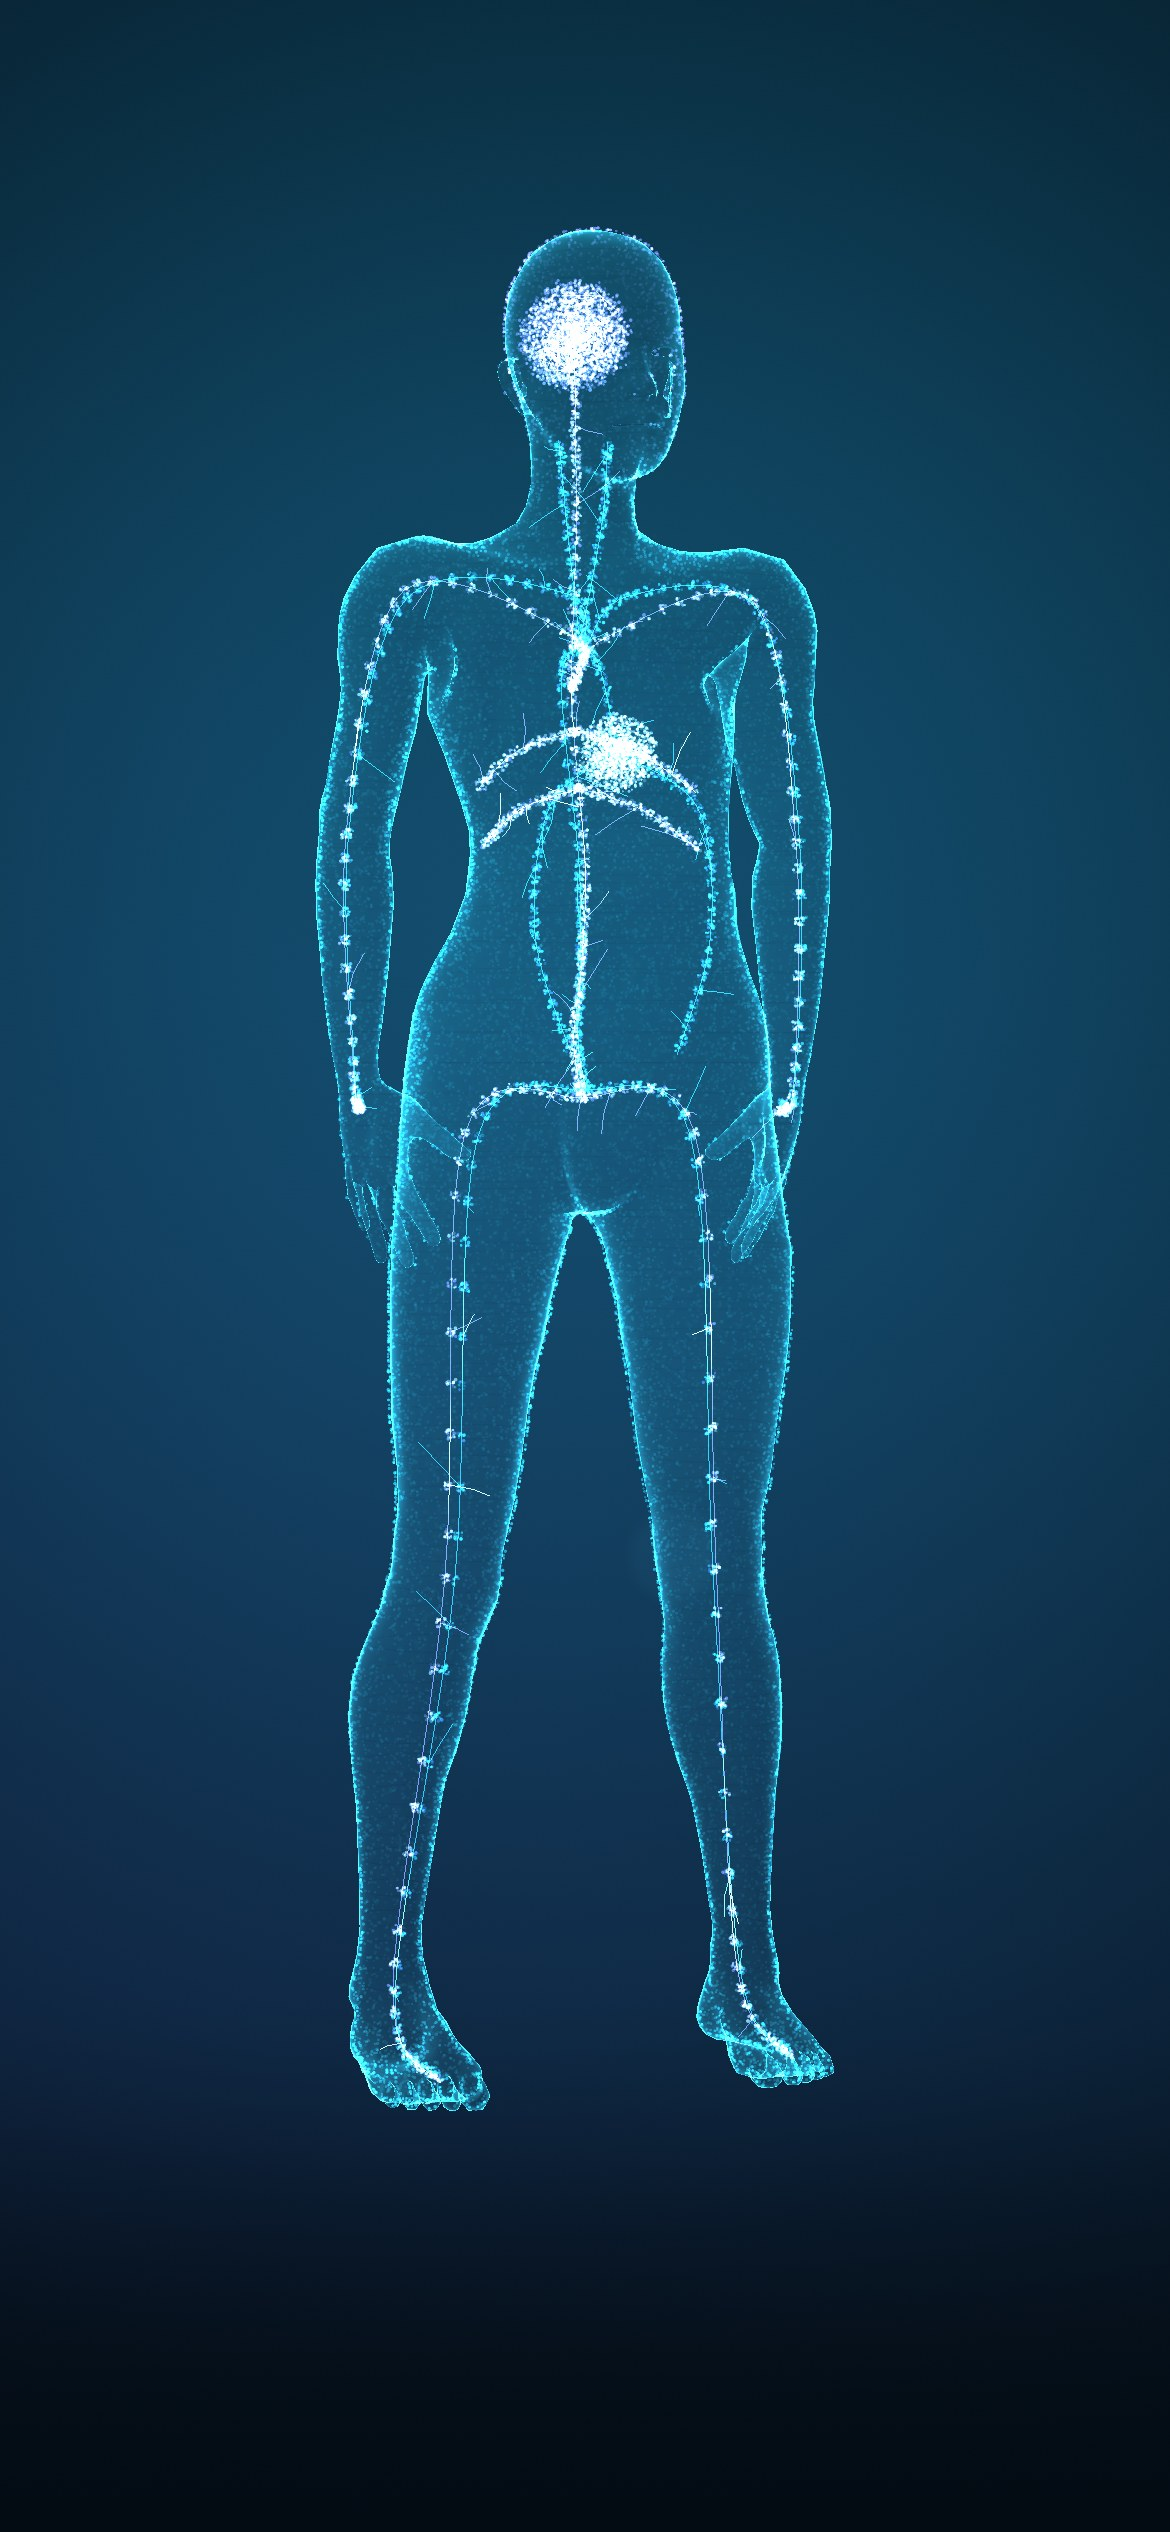
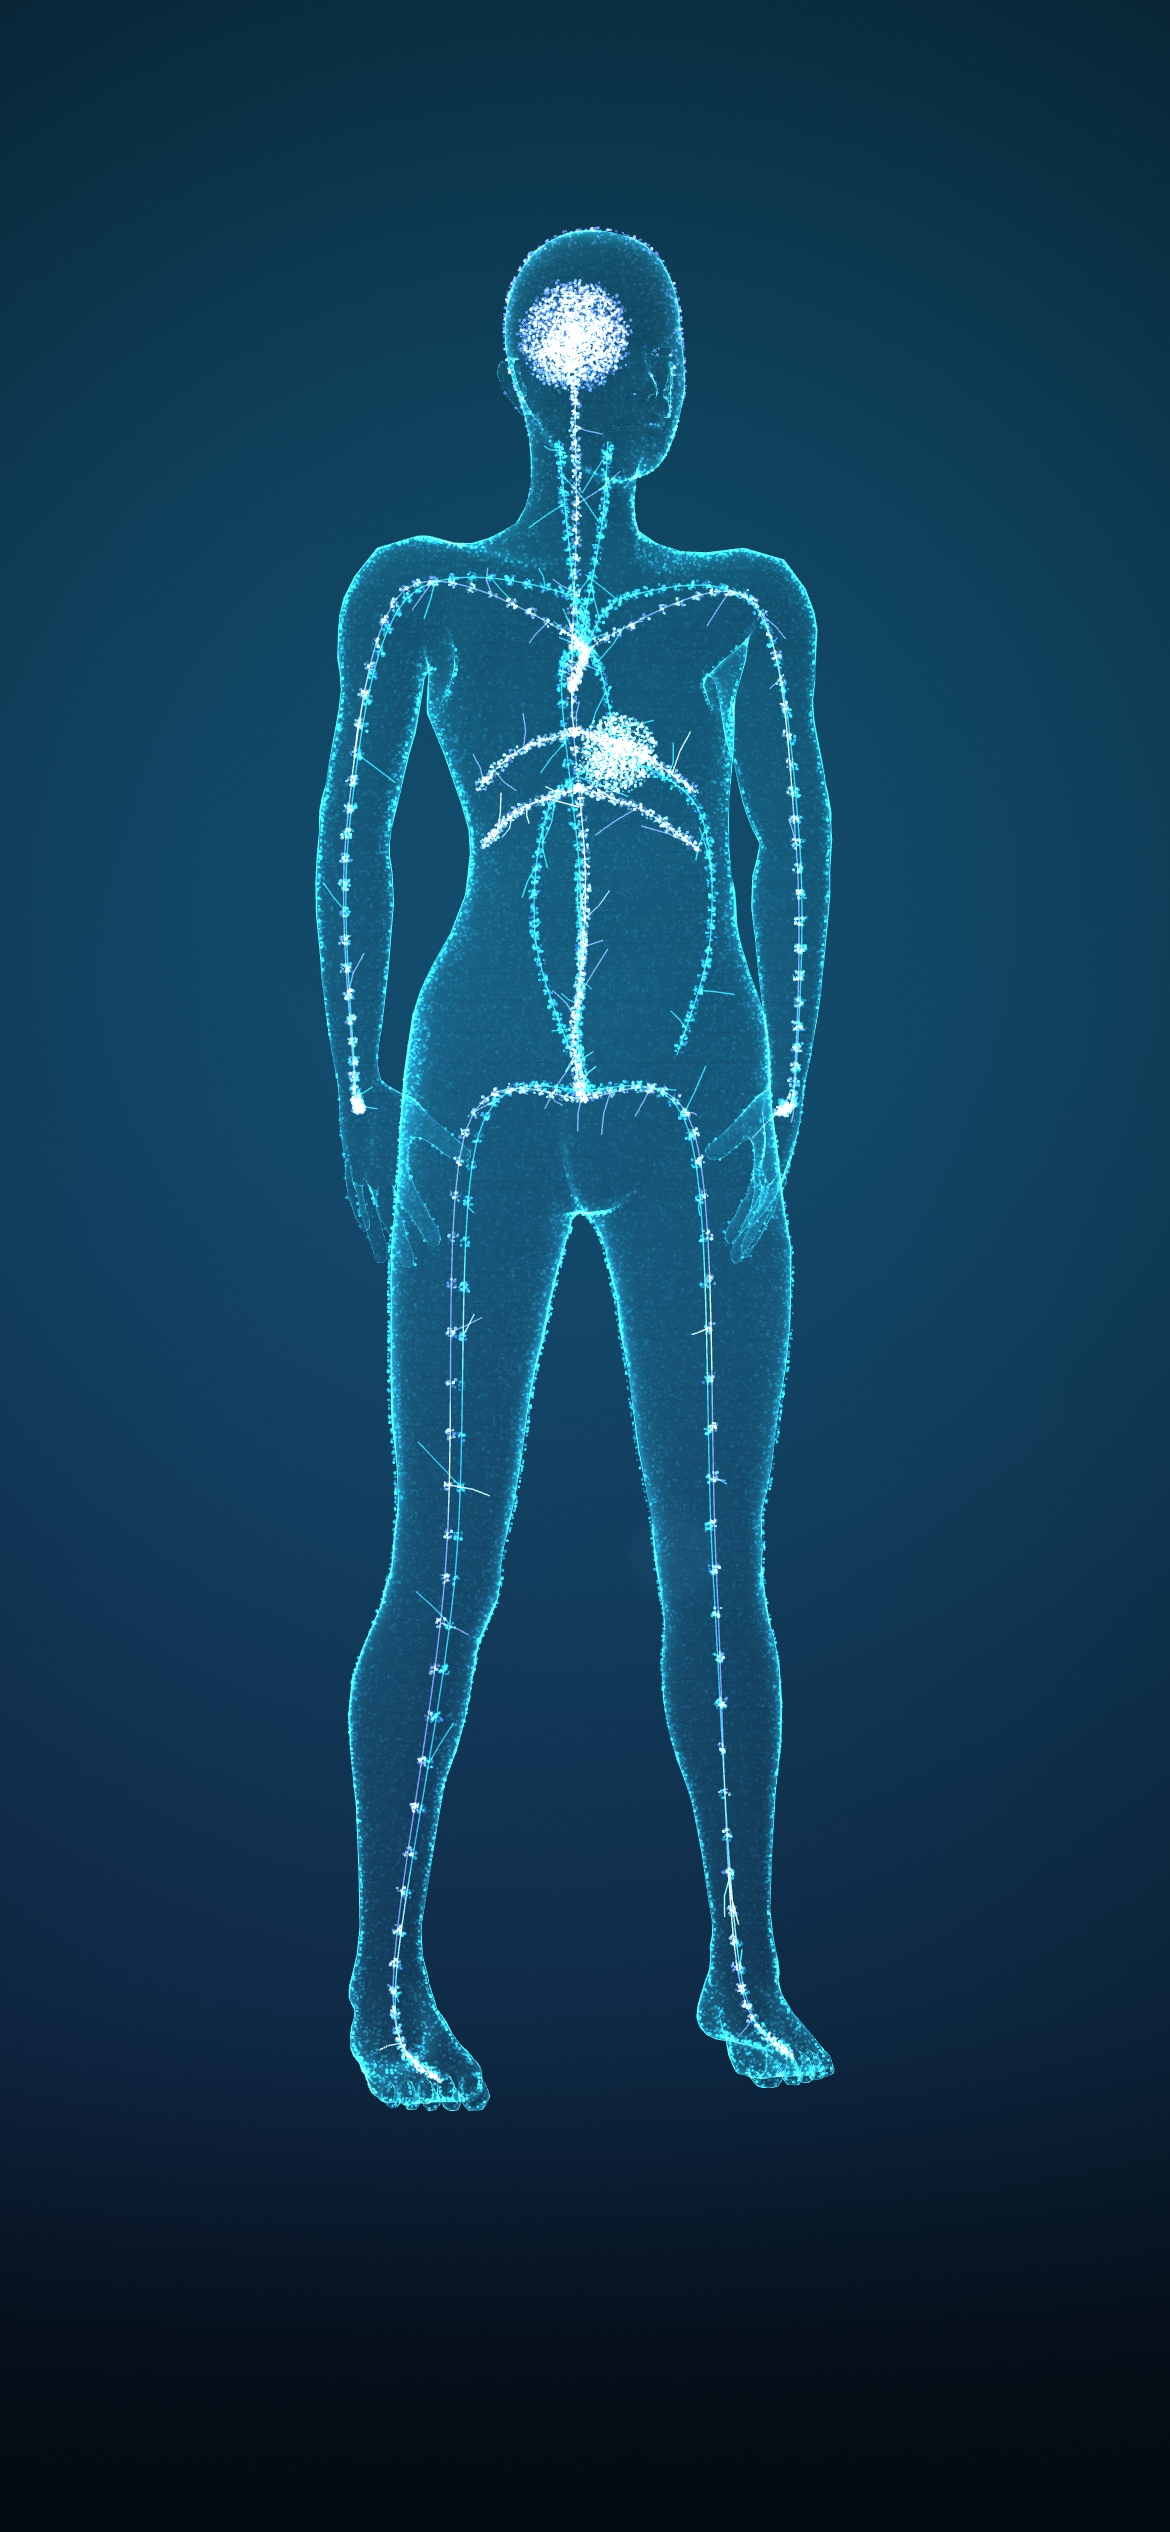
Public: sharpen the hero and scene graphics
- WebGL hero: MSAA antialiasing on, resolution never below 1x and up to
  2x on capable devices (1.25x for integrated GPUs at high resolution);
  quality step-down floors at 1x instead of dropping below native.
- Images: hero still and scene renders delivered at quality 90 as
  AVIF/WebP (were re-compressed JPEG at 75, which blocked and banded
  the dark gradients); masters re-rendered at JPEG 0.96.
- The full-width 'Everything connects' render is now 3200 px wide
  (was 2000, stretched on large and high-DPI screens).

Changed region(s): [[0.3692, 0.624, 0.4, 0.6552], [0.3692, 0.5616, 0.4, 0.5928]]

diff --git a/src/components/showcase/hero/hero-tier.ts b/src/components/showcase/hero/hero-tier.ts
@@ -29,8 +29,8 @@ export interface TierBudget {
 }
 
 const BUDGET: Record<Tier, Omit<TierBudget, 'tier' | 'reason'>> = {
-  a: { surface: 22000, interior: 4000, brain: 2000, story: 14000, motes: 70, maxDpr: 1.75, maxPointPx: 26 },
-  b: { surface: 11000, interior: 2000, brain: 1200, story: 6000, motes: 30, maxDpr: 1.5, maxPointPx: 16 },
+  a: { surface: 22000, interior: 4000, brain: 2000, story: 14000, motes: 70, maxDpr: 2, maxPointPx: 26 },
+  b: { surface: 11000, interior: 2000, brain: 1200, story: 6000, motes: 30, maxDpr: 2, maxPointPx: 16 },
   c: { surface: 0, interior: 0, brain: 0, story: 0, motes: 0, maxDpr: 1, maxPointPx: 0 },
 };
 
@@ -71,6 +71,6 @@ export function detectTier(search: string = window.location.search): TierBudget 
   if (window.matchMedia('(pointer: coarse)').matches || window.innerWidth < 820) return make('b', 'touch or small viewport');
   if ((nav.deviceMemory ?? 8) <= 4) return make('b', 'device memory ≤ 4 GB');
   if ((nav.hardwareConcurrency ?? 8) <= 4) return make('b', '≤ 4 logical cores');
-  if (integratedGpuAtHighRes(gl)) return { ...make('b', 'integrated GPU at high resolution'), maxDpr: 0.9 };
+  if (integratedGpuAtHighRes(gl)) return { ...make('b', 'integrated GPU at high resolution'), maxDpr: 1.25 };
   return make('a', 'desktop-class device');
 }

diff --git a/src/components/showcase/hero/hero-engine.ts b/src/components/showcase/hero/hero-engine.ts
@@ -222,7 +222,8 @@ export class HeroEngine {
     this.budget = opts.tier;
     this.renderer = new THREE.WebGLRenderer({
       canvas,
-      antialias: false,
+      // MSAA: smooth edges on the ribbon, atoms and contour lines.
+      antialias: true,
       alpha: false,
       powerPreference: 'high-performance',
       stencil: false,
@@ -623,7 +624,7 @@ export class HeroEngine {
     this.portrait = w / h < 0.9;
     this.camera.aspect = w / h;
     this.camera.updateProjectionMatrix();
-    const dpr = Math.max(0.75, Math.min(window.devicePixelRatio || 1, this.budget.maxDpr) * this.dprScale);
+    const dpr = Math.max(1, Math.min(window.devicePixelRatio || 1, this.budget.maxDpr) * this.dprScale);
     this.renderer.setPixelRatio(dpr);
     this.renderer.setSize(w, h, false);
     this.perf.dpr = Number(dpr.toFixed(2));
@@ -711,7 +712,7 @@ export class HeroEngine {
     }
     if (++this.badWindows < 2) return;
     this.badWindows = 0;
-    if (this.renderer.getPixelRatio() > 0.8) {
+    if (this.renderer.getPixelRatio() > 1.05) {
       this.dprScale *= 0.8;
       this.perf.qualitySteps++;
       this.resize();

diff --git a/src/components/showcase/platform.tsx b/src/components/showcase/platform.tsx
@@ -24,7 +24,7 @@ function Scene({ src, alt, sizes, className = '', position = 'center' }: {
   return (
     <div className={`sx-scene ${className}`}>
       <div data-parallax="36">
-        <Image src={src} alt={alt} fill sizes={sizes} style={{ objectPosition: position }} />
+        <Image src={src} alt={alt} fill sizes={sizes} quality={90} style={{ objectPosition: position }} />
       </div>
       <span className="sx-scene-edge" aria-hidden="true" />
     </div>
@@ -68,6 +68,7 @@ export function Building() {
               alt="A peptide, receptor signalling and a translucent human figure lit from within, in one continuous scene."
               fill
               sizes="100vw"
+              quality={90}
               className="object-[68%_50%] sm:object-center"
             />
           </div>

diff --git a/scripts/hero/capture-stills.ts b/scripts/hero/capture-stills.ts
@@ -60,7 +60,8 @@ for (const shot of CAPTURES.filter((c) => !only || c.file.includes(only))) {
   const dataUrl = await page.evaluate(() => {
     const canvas = document.querySelector<HTMLCanvasElement>('canvas.sx-hero-gl');
     if (!canvas) throw new Error('hero canvas not found');
-    return canvas.toDataURL('image/jpeg', 0.88);
+    // High quality master: the image optimizer compresses it again for delivery.
+    return canvas.toDataURL('image/jpeg', 0.96);
   });
   const out = join(root, 'public', shot.file);
   mkdirSync(dirname(out), { recursive: true });

diff --git a/src/components/showcase/hero.tsx b/src/components/showcase/hero.tsx
@@ -21,7 +21,7 @@ const PHASES = [
 ] as const;
 
 function HeroStill() {
-  const common = { alt: '', sizes: '100vw', quality: 75 } as const;
+  const common = { alt: '', sizes: '100vw', quality: 90 } as const;
   const {
     props: { srcSet: desktop },
   } = getImageProps({ ...common, src: '/hero/still-desktop.jpg', width: 2400, height: 1350 });

diff --git a/next.config.ts b/next.config.ts
@@ -6,6 +6,11 @@ const nextConfig: NextConfig = {
   output: 'standalone',
   poweredByHeader: false,
   typedRoutes: true,
+  images: {
+    // 90 for the hero and scene renders: dark gradients band and block at 75.
+    qualities: [75, 90],
+    formats: ['image/avif', 'image/webp'],
+  },
   headers() {
     return Promise.resolve([
       {

diff --git a/src/components/showcase/hero/hero-shots.ts b/src/components/showcase/hero/hero-shots.ts
@@ -99,7 +99,7 @@ export const SHOTS = {
   },
   /** Everything at once: the peptide, the receptors, the signal, the person. */
   connect: {
-    size: [2000, 1000],
+    size: [3200, 1600],
     p: 0.7,
     time: 16,
     camera: [-0.9, 2.55, 9.2],
